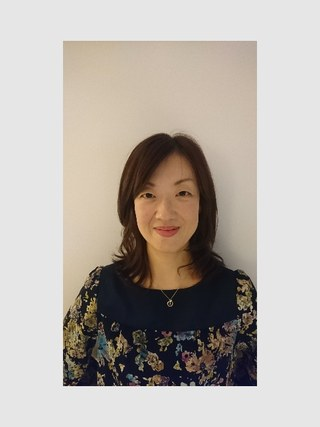
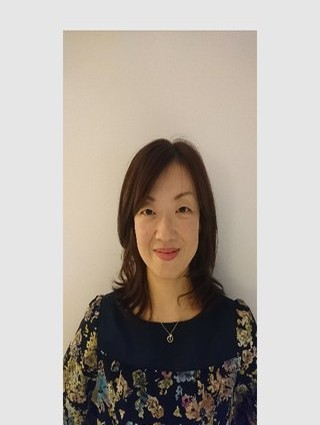
岩城先生の写真：顔を上寄りに調整

Changed region(s): [[0.1875, 0.3059, 0.8125, 1.0], [0.1875, 0.0612, 0.8125, 0.1224]]

diff --git a/index.html b/index.html
@@ -903,7 +903,7 @@ body.high-contrast{filter:contrast(1.55) brightness(0.95)}
     <div class="spk-grid reveal">
 
       <div class="spk-card" onclick="openSpk('iwaki')">
-        <img class="spk-photo" src="speaker-iwaki.jpg?v=5" alt="岩城忍先生" loading="lazy">
+        <img class="spk-photo" src="speaker-iwaki.jpg?v=6" alt="岩城忍先生" loading="lazy" style="object-position:center 5%">
         <div class="spk-body">
           <span class="spk-day d2">8/2 Part 2</span>
           <div class="spk-dept">🗣 言語聴覚士</div>
